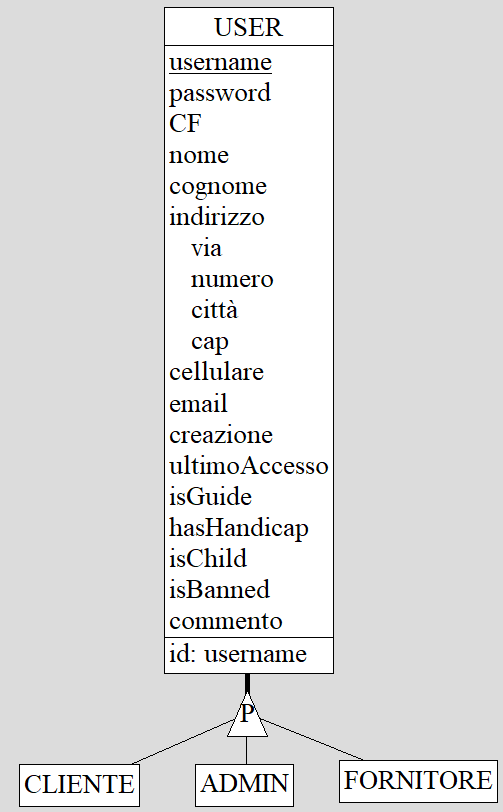
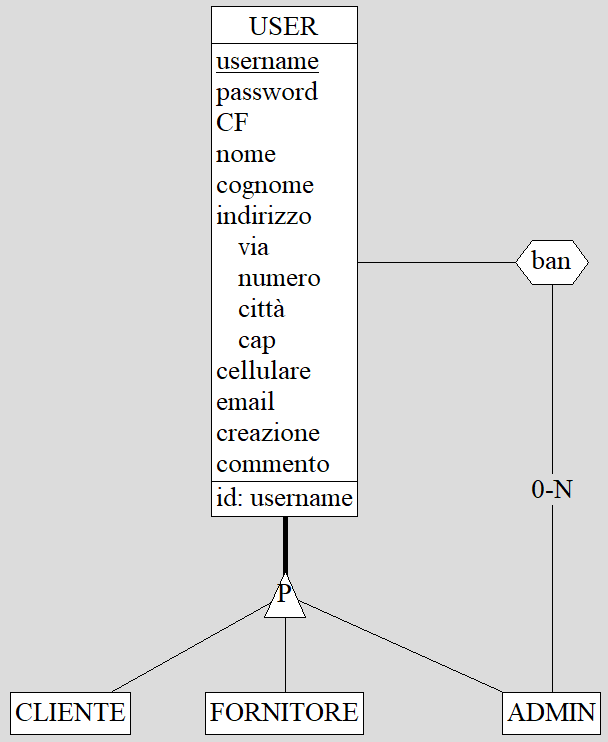
Revisione 2.3

Changed region(s): [[0.328, 0.0, 0.6859, 1.0], [0.6561, 0.31, 1.0, 0.9919], [0.0, 0.9299, 0.2982, 1.0]]

diff --git a/elaborato/doc/2_3_Schema_iniziale.tex b/elaborato/doc/2_3_Schema_iniziale.tex
@@ -7,35 +7,43 @@ Nei paragrafi successivi le entità e le relazioni verranno raffinate e lo schem
 
 \subsubsection{User}
 \includegraphics[width=0.95\columnwidth]{User.png}\\
-I tre tipi di account che potranno essere creati, \textbf{CLIENTE}, \textbf{FORNITORE}, \textbf{ADMIN},  saranno sottocategorie di \textbf{USER}. Data la possibilità che una persona crei più di un account, ad esempio un fornitore vuole anche essere un cliente, l'identificazione avverrà tramite \textbf{username} e non il \textbf{CF}(codice fiscale).
-
-
+I tre tipi di account che potranno essere creati, \textbf{CLIENTE}, \textbf{FORNITORE}, \textbf{ADMIN},  saranno sottocategorie di \textbf{USER}. Data la possibilità che una persona crei più di un account, ad esempio un fornitore vuole anche essere anche un cliente, l'identificazione avverrà tramite \textbf{username} e non il \textbf{CF}(codice fiscale).
 
 \subsubsection{Ente}
 \includegraphics[width=0.95\columnwidth]{images/Ente.png} \\
-L'ente è l'organizzazione che vende i servizi e organizza gli eventi. 
-I fornitori possono lavorare per più di un ente.
-Gli enti creano post e decidono quando pubblicarli/renderli pubblici. 
+L'ente è l'organizzazione che vende i servizi e organizza gli eventi. Possono venire creati dai fornitori. 
+I fornitori possono associarsi ad un solo ente.
 
 
 \subsubsection{Eventi}
 \includegraphics[width=0.95\columnwidth]{images/Eventi.png} \\
-I servizi sono gli avvenimenti gratuito accessibili con o senza prenotazione.
+Gli eventi sono gli avvenimenti gratuiti accessibili dai clienti con prenotazione.
 Sono organizzati dagli enti, un ente può organizzare più eventi ma un evento appartiene ad un solo ente.
-Un evento può accadere in modalità periodica (ad esempio eventi a tema natalizio) oppure in modo occasionale (ad esempio inaugurazione di una nuova gelateria in centro)
+Un evento può accadere in modalità periodica (ad esempio eventi a tema natalizio) oppure in modo occasionale (ad esempio inaugurazione di una nuova gelateria in centro).
+
+
+\subsubsection{Servizi}
+\includegraphics[width=0.95\columnwidth]{images/Servizi.png} \\
+I servizi sono prodotti a pagamento accessibili dai clienti.
+Sono venduti dagli enti, comprati tramite carta di credito e recensiti dai clienti dopo l'acquisto.
+
+
 \subsubsection{CityCard}
 \includegraphics[width=0.95\columnwidth]{images/CityCard.png} \\
-Ogni cliente può ottenere una CityCard che  permetterà l'utilizzo gratuito dei mezzi pubblici e la prenotazione e l'acquisto di servizi forniti dagli enti comunali e regionali. Per attivare la CityCard sarà necessario sottoscrivere ad un abbonamento a scelta tra tre diverse durate, dalla scelta fatta varierà la validità e gli sconti offerti  per l'acquisto dei servizi.
-\subsubsection{Carta di credito} 
-Ogni cliente, tramite la carta di credito, potrà acquistare la city card e pagare gli enti che forniscono i servizi
-\subsubsection{Sezione delle news}
-Una volta avuto accesso al portale ci sarà una sezione dedicata alle notizie relative ad eventi o servizi.
-L'ente potrà creare un post in cui pubblicizza i servizi offerti o un'attività l'evento che sta organizzando
+Ogni cliente può ottenere una CityCard che permetterà l'utilizzo gratuito dei mezzi pubblici e la prenotazione e l'acquisto di servizi forniti dagli enti. Per attivare la CityCard sarà necessario sottoscrivere ad un abbonamento a scelta tra tre diverse durate, dalla scelta fatta varierà la percentuale degli sconti applicati sui costi dei servizi.
+
+\subsubsection{Trasporti Pubblici}
+Si suppone che i trasporti pubblici siano una o più API esterne fornite dalla regione e/o da privati. Verrà creata una tabella con gli attributi minimali per imitarne la funzionalità. 
+
+
+\subsubsection{Carta di credito}
+\includegraphics[width=0.95\columnwidth]{images/CartaDiCredito.png}\\
+Ogni cliente, tramite la carta di credito, potrà acquistare l'abbonamento per la city card e pagare gli enti che forniscono i servizi.
+
+
 \subsubsection{Abbonamento}
-\includegraphics[width=0.95\columnwidth]{images/abbonamento.png}\\
-L'abbonamento è lo strumento che permette l'attivazione della city card e, di conseguenza, l'acquisto di servizi. Ogni abbonamento ha una sua tipologia che l'utente potrà scegliere di acquistare. A prescindere dalla tipologia ogni abbonamento ha un suo prezzo e un periodo di validità.
+\includegraphics[width=0.95\columnwidth]{images/Abbonamento.png}\\
+L'abbonamento è lo strumento che permette l'attivazione della city card e, di conseguenza, l'acquisto di servizi. Ogni abbonamento ha una sua fascia con prezzo, durata e percentuale di sconto diversi, l'utente potrà scegliere quale acquistare. A prescindere dalla tipologia ogni abbonamento ha un periodo di validità.
+
 \subsubsection{Sconti}
-Lo sconto viene applicato in base ad alcune variabili: \\
-    - età del cliente (se è sopra ai 65 anni di età) \\
-    - se si è formato un gruppo si avrà una riduzione del servizio \\
-Lo sconto si caratterizza per la percentuale di riduzione.
+Lo sconto si caratterizza per la percentuale di riduzione di prezzo applicata ai servizi.

diff --git a/elaborato/doc/2_4_Rilevamento_ambiguita.tex b/elaborato/doc/2_4_Rilevamento_ambiguita.tex
@@ -1,7 +1,4 @@
 In seguito all'analisi dei requisiti si nota subito la necessità di permettere a una persona di poter creare più di un account. Questo è necessario perché i tre tipi di utente possono compiere azioni diverse e mutualmente esclusive tra di loro. Senza la possibilità di creare più account un fornitore o un amministratore non potrebbero essere clienti. Questo ci porta a ripensare la chiave primaria di Utente...%TODO: continuare
 
-Ambiguità tra Indirizzo Utente e Indirizzo Servizio
-%TODO: pensare ad altri problemi simili
-
 
 Controllare se conviene tenere il conto di dati come il numero di clienti avuti in totale. % laboratorio 4
